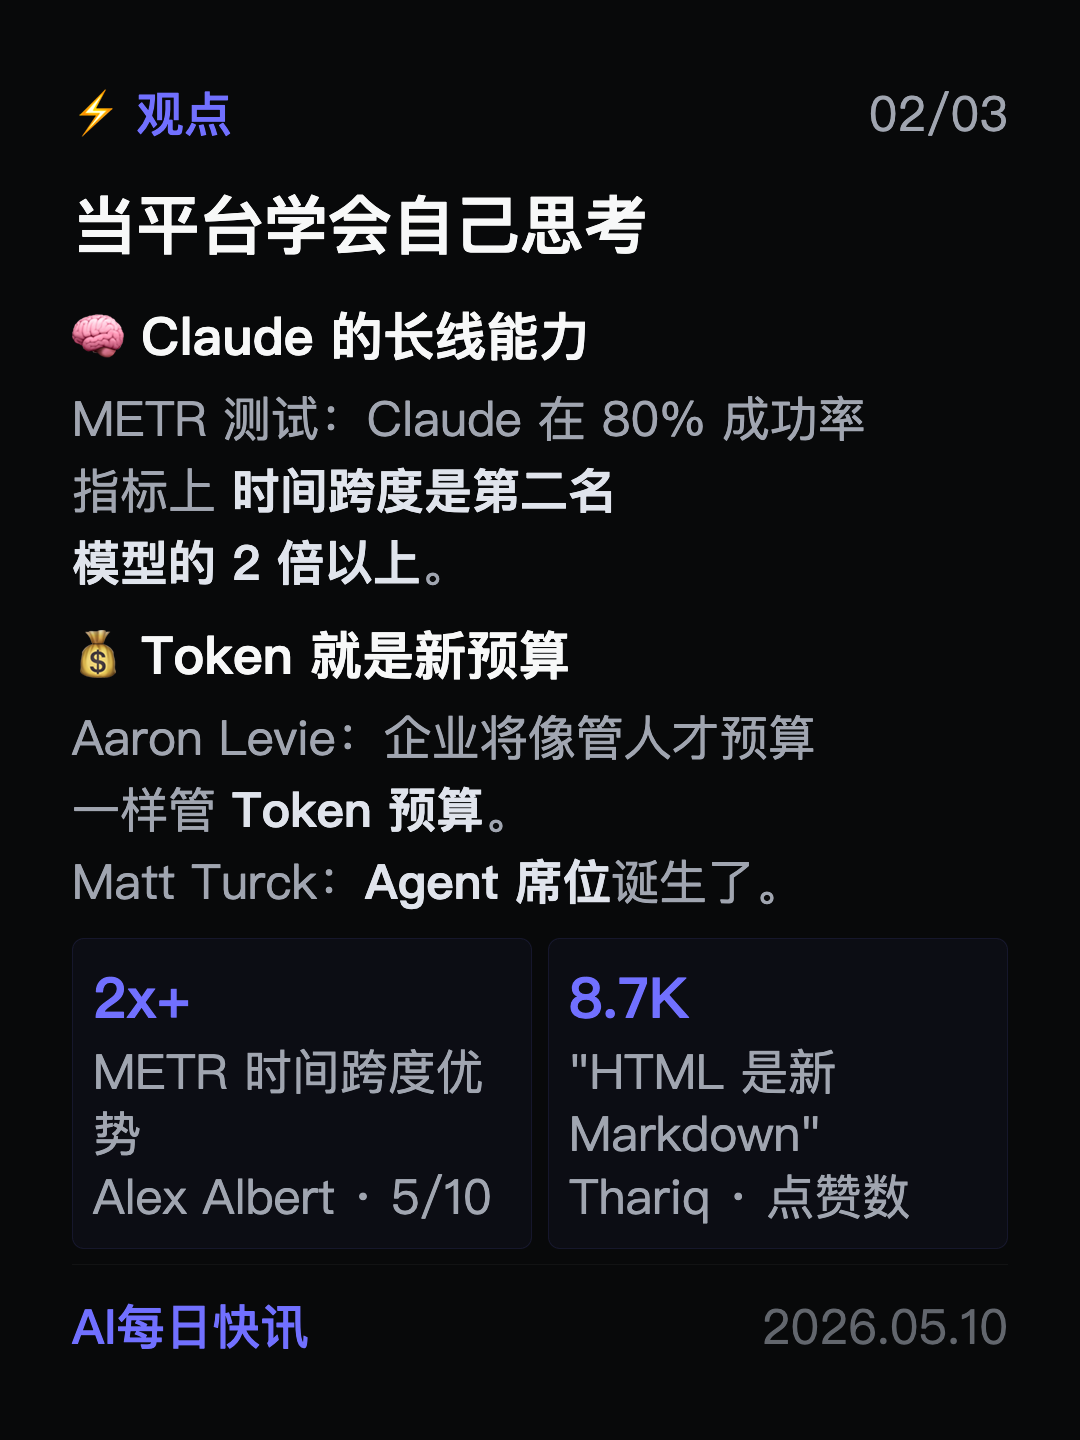
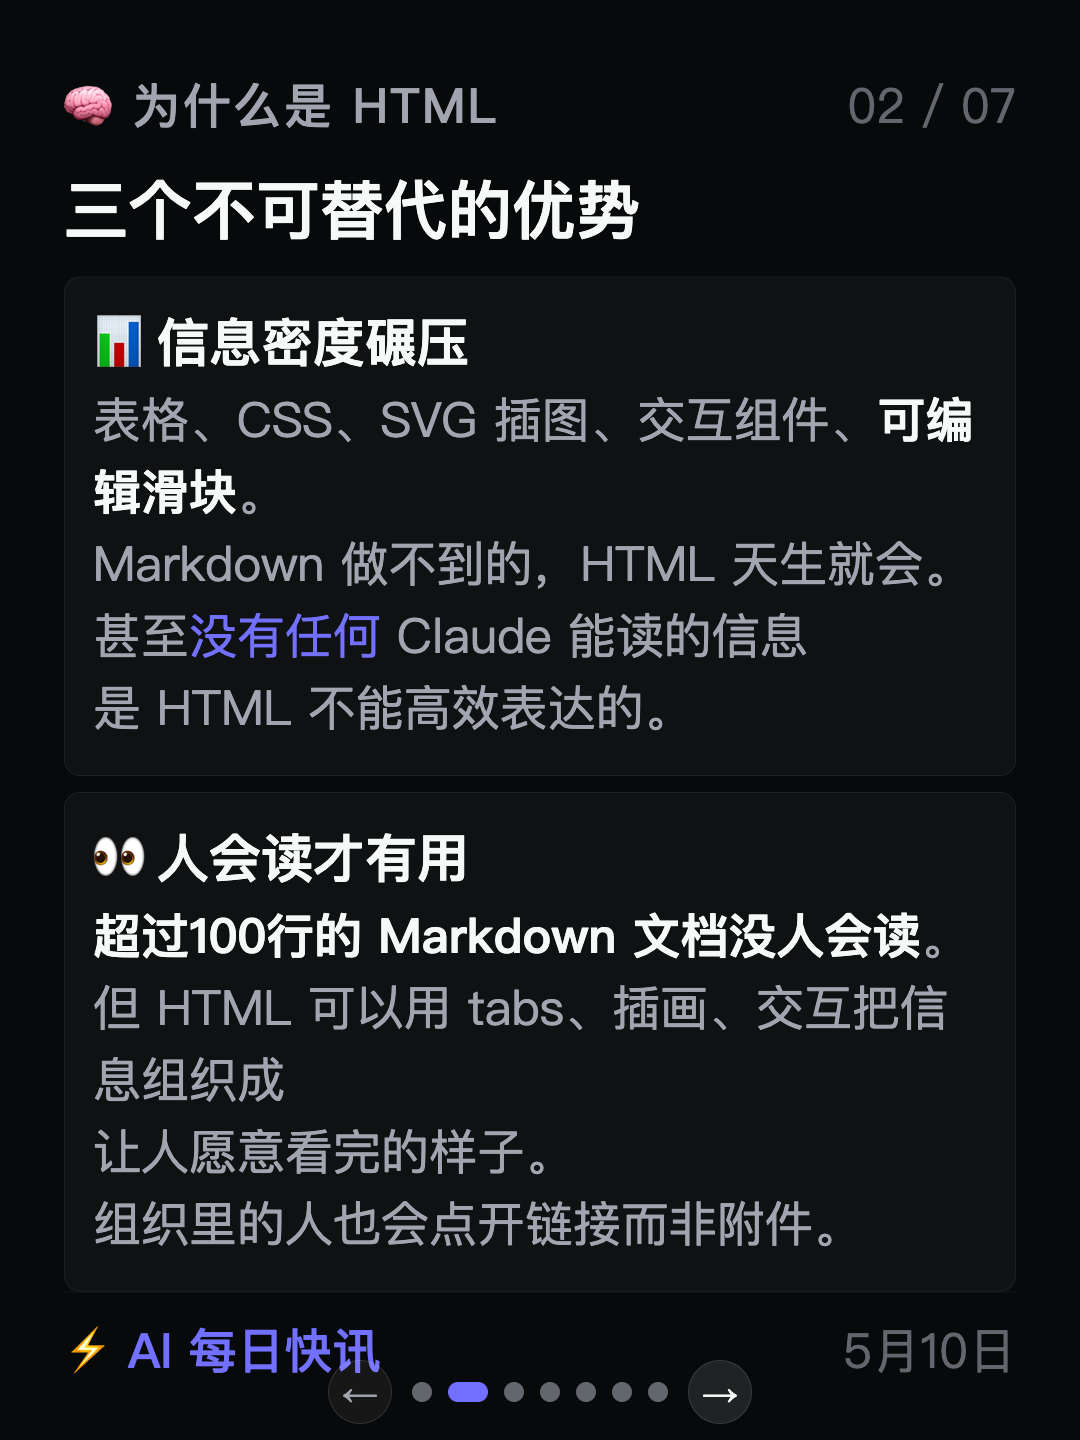
📰 20260510 Thariq HTML 7页卡片 — 用HTML替代Markdown

diff --git a/docs/20260510-thariq-html.html b/docs/20260510-thariq-html.html
@@ -1,0 +1,366 @@
+<!DOCTYPE html>
+<html lang="zh-CN">
+<head>
+<meta charset="UTF-8">
+<meta name="viewport" content="width=device-width, initial-scale=1.0">
+<title>AI Digest · HTML 输出时代</title>
+<style>
+* { margin: 0; padding: 0; box-sizing: border-box; }
+body {
+  font-family: -apple-system, 'PingFang SC', 'Noto Sans SC', 'Helvetica Neue', system-ui, sans-serif;
+  background: #08090a;
+  display: flex; justify-content: center; align-items: center;
+  min-height: 100vh;
+}
+.viewer {
+  position: relative;
+  width: 1080px; height: 1440px;
+  overflow: hidden;
+  background: #08090a;
+}
+.card {
+  position: absolute; inset: 0;
+  display: flex; flex-direction: column;
+  padding: 72px 64px 56px;
+  opacity: 0; transition: opacity 0.35s ease;
+  pointer-events: none;
+}
+.card.active {
+  opacity: 1; pointer-events: auto;
+}
+
+/* Page top */
+.page-top {
+  display: flex; justify-content: space-between; align-items: center;
+  margin-bottom: 32px; flex-shrink: 0;
+}
+.label {
+  font-size: 48px; font-weight: 500; color: #a0a5b0; letter-spacing: 0.05em;
+}
+.page-num {
+  font-size: 48px; font-weight: 400; color: #62666d;
+}
+.brand {
+  color: #7170ff;
+}
+
+/* Page 1 - Cover */
+.pc-headline {
+  flex: 1; display: flex; flex-direction: column; justify-content: center;
+  font-size: 88px; font-weight: 900; line-height: 1.15;
+  color: #f7f8f8; letter-spacing: -0.02em;
+}
+.pc-headline .accent { color: #7170ff; }
+.pc-sub {
+  font-size: 48px; font-weight: 400; line-height: 1.5;
+  color: #a0a5b0; margin-top: 20px; flex-shrink: 0;
+}
+.pc-meta {
+  display: flex; align-items: center; gap: 24px;
+  margin-top: 24px; flex-shrink: 0;
+}
+.pc-meta .tag {
+  font-size: 48px; font-weight: 500; color: #7170ff;
+}
+.pc-meta .source {
+  font-size: 48px; font-weight: 400; color: #62666d;
+}
+
+/* Page 2 - Analysis */
+.analysis-title {
+  font-size: 64px; font-weight: 800; color: #f7f8f8;
+  margin-bottom: 28px; line-height: 1.2; flex-shrink: 0;
+}
+.analysis-body {
+  flex: 1; display: flex; flex-direction: column; gap: 16px;
+  overflow: hidden;
+}
+.analysis-block {
+  flex: 1;
+  background: rgba(255,255,255,0.03);
+  border: 1px solid rgba(255,255,255,0.06);
+  border-radius: 16px; padding: 24px 28px;
+  display: flex; flex-direction: column; justify-content: center;
+}
+.ab-title {
+  font-size: 52px; font-weight: 700; color: #f7f8f8;
+  margin-bottom: 8px; line-height: 1.3;
+}
+.ab-title .emoji { margin-right: 12px; }
+.ab-body {
+  font-size: 48px; font-weight: 400; color: #a0a5b0;
+  line-height: 1.5;
+}
+.ab-body strong { color: #f7f8f8; font-weight: 600; }
+.ab-body .accent-text { color: #7170ff; }
+
+/* Pages 3-7: Use Case Pages (large image + single insight) */
+.ucd-container {
+  flex: 1; display: flex; flex-direction: column;
+  overflow: hidden;
+}
+.ucd-headline {
+  font-size: 52px; font-weight: 800; color: #f7f8f8;
+  margin-bottom: 20px; flex-shrink: 0; line-height: 1.2;
+}
+.ucd-img-wrap {
+  flex: 1; display: flex; align-items: center; justify-content: center;
+  margin-bottom: 16px; overflow: hidden;
+}
+.ucd-img-wrap img {
+  max-height: 100%; max-width: 100%;
+  width: auto; height: auto;
+  border-radius: 10px;
+  border: 1px solid rgba(255,255,255,0.08);
+  object-fit: contain;
+}
+.ucd-insight {
+  flex-shrink: 0;
+  font-size: 48px; font-weight: 400; color: #a0a5b0;
+  line-height: 1.5;
+}
+.ucd-insight strong { color: #f7f8f8; font-weight: 600; }
+
+/* Footer */
+.card-footer {
+  display: flex; justify-content: space-between; align-items: center;
+  padding-top: 24px; margin-top: auto;
+  border-top: 1px solid rgba(255,255,255,0.06);
+  flex-shrink: 0;
+}
+.card-footer .brand { font-size: 48px; font-weight: 500; }
+.card-footer .date { font-size: 48px; font-weight: 400; color: #62666d; }
+
+/* Navigation */
+.nav-bar {
+  position: absolute; bottom: 0; left: 0; right: 0;
+  display: flex; justify-content: center; align-items: center;
+  gap: 20px; padding: 16px 0;
+  z-index: 10;
+}
+.nav-btn {
+  width: 64px; height: 64px; border-radius: 50%;
+  background: rgba(255,255,255,0.06); border: 1px solid rgba(255,255,255,0.1);
+  color: #a0a5b0; font-size: 36px; cursor: pointer;
+  display: flex; align-items: center; justify-content: center;
+  transition: all 0.2s;
+}
+.nav-btn:hover { background: rgba(255,255,255,0.1); color: #f7f8f8; }
+.nav-btn:disabled { opacity: 0.2; cursor: default; }
+.dots { display: flex; gap: 16px; }
+.dot {
+  width: 20px; height: 20px; border-radius: 50%;
+  background: #62666d; cursor: pointer; transition: all 0.2s;
+  border: none;
+}
+.dot.active { background: #7170ff; width: 40px; border-radius: 10px; }
+</style>
+</head>
+<body>
+<div class="viewer" id="viewer">
+
+  <!-- Page 1: 核心观点 -->
+  <div class="card active" id="page0">
+    <div class="page-top">
+      <span class="label">⚡ 核心观点</span>
+      <span class="page-num">01 / 07</span>
+    </div>
+    <div class="pc-headline">
+      我越来越倾向于用<br>
+      <span class="accent">HTML</span> 替代 Markdown<br>
+      作为 AI 的输出格式
+    </div>
+    <div class="pc-sub">
+      951 万阅读 · 3.1 万转帖 · 2.7 万收藏<br>
+      这是 Claude Code 团队最被低估的范式转换
+    </div>
+    <div class="pc-meta">
+      <span class="tag">Thariq</span>
+      <span class="source">Claude Code 团队 · 2026.5</span>
+    </div>
+    <div class="card-footer">
+      <span class="brand">⚡ AI 每日快讯</span>
+      <span class="date">5月10日</span>
+    </div>
+  </div>
+
+  <!-- Page 2: 为什么 HTML -->
+  <div class="card" id="page1">
+    <div class="page-top">
+      <span class="label">🧠 为什么是 HTML</span>
+      <span class="page-num">02 / 07</span>
+    </div>
+    <div class="analysis-title">三个不可替代的优势</div>
+    <div class="analysis-body">
+      <div class="analysis-block">
+        <div class="ab-title"><span class="emoji">📊</span>信息密度碾压</div>
+        <div class="ab-body">
+          表格、CSS、SVG 插图、交互组件、<strong>可编辑滑块</strong>。<br>
+          Markdown 做不到的，HTML 天生就会。<br>
+          甚至<span class="accent-text">没有任何</span> Claude 能读的信息<br>
+          是 HTML 不能高效表达的。
+        </div>
+      </div>
+      <div class="analysis-block">
+        <div class="ab-title"><span class="emoji">👀</span>人会读才有用</div>
+        <div class="ab-body">
+          <strong>超过100行的 Markdown 文档没人会读</strong>。<br>
+          但 HTML 可以用 tabs、插画、交互把信息组织成<br>
+          让人愿意看完的样子。<br>
+          组织里的人也会点开链接而非附件。
+        </div>
+      </div>
+    </div>
+    <div class="card-footer">
+      <span class="brand">⚡ AI 每日快讯</span>
+      <span class="date">5月10日</span>
+    </div>
+  </div>
+
+  <!-- Page 3: 方案规划与探索 -->
+  <div class="card" id="page2">
+    <div class="page-top">
+      <span class="label">📍 方案规划与探索</span>
+      <span class="page-num">03 / 07</span>
+    </div>
+    <div class="ucd-container">
+      <div class="ucd-headline">方案规划与探索</div>
+      <div class="ucd-img-wrap">
+        <img src="../assets/20260510/thariq-specs.jpg" alt="方案规划与探索示例截图">
+      </div>
+      <div class="ucd-insight">
+        HTML 能在单页内平铺 6 种方案对比网格，标注每个的取舍。Markdown 做不到这种视觉化对比——你只能在多个文件间来回切换。HTML 把探索过程做成可交互的「方案网络」，从不确定到收敛再到验证，全程可视化。
+      </div>
+    </div>
+    <div class="card-footer">
+      <span class="brand">⚡ AI 每日快讯</span>
+      <span class="date">5月10日</span>
+    </div>
+  </div>
+
+  <!-- Page 4: 代码审查与理解 -->
+  <div class="card" id="page3">
+    <div class="page-top">
+      <span class="label">🔍 代码审查与理解</span>
+      <span class="page-num">04 / 07</span>
+    </div>
+    <div class="ucd-container">
+      <div class="ucd-headline">代码审查与理解</div>
+      <div class="ucd-img-wrap">
+        <img src="../assets/20260510/thariq-codereview.png" alt="代码审查示例截图">
+      </div>
+      <div class="ucd-insight">
+        HTML 能渲染带边注的 diff、按严重度颜色标记的流程图和模块关系图。Markdown 的代码块只是静态片段，而 HTML 可以把整个 PR 的上下文组织成可浏览的解释页。Thariq 现在每个 PR 都附一个 HTML 解释页，比 GitHub diff 好用得多。
+      </div>
+    </div>
+    <div class="card-footer">
+      <span class="brand">⚡ AI 每日快讯</span>
+      <span class="date">5月10日</span>
+    </div>
+  </div>
+
+  <!-- Page 5: 设计与原型 -->
+  <div class="card" id="page4">
+    <div class="page-top">
+      <span class="label">🎨 设计与原型</span>
+      <span class="page-num">05 / 07</span>
+    </div>
+    <div class="ucd-container">
+      <div class="ucd-headline">设计与原型</div>
+      <div class="ucd-img-wrap">
+        <img src="../assets/20260510/thariq-design.jpg" alt="设计与原型示例截图">
+      </div>
+      <div class="ucd-insight">
+        HTML 可以添加滑块、旋钮实时调参，调好后一键复制参数转成 prompt 贴回 Claude Code。Markdown 无法实现这种双向交互——你只能描述想要的效果，等 AI 重新生成。HTML 让你在视觉上「调」到满意为止，再跨平台实现。
+      </div>
+    </div>
+    <div class="card-footer">
+      <span class="brand">⚡ AI 每日快讯</span>
+      <span class="date">5月10日</span>
+    </div>
+  </div>
+
+  <!-- Page 6: 报告与研究 -->
+  <div class="card" id="page5">
+    <div class="page-top">
+      <span class="label">📋 报告与研究</span>
+      <span class="page-num">06 / 07</span>
+    </div>
+    <div class="ucd-container">
+      <div class="ucd-headline">报告与研究</div>
+      <div class="ucd-img-wrap">
+        <img src="../assets/20260510/thariq-report.jpg" alt="报告与研究示例截图">
+      </div>
+      <div class="ucd-insight">
+        HTML 可以从 Slack、代码、Git 历史、网络多个来源综合信息，产出带 SVG 流程图和交互式图表的长报告甚至幻灯片。Markdown 报告只能靠文字和表格，而 HTML 报告可以分享链接而非附件——阅读率翻倍。
+      </div>
+    </div>
+    <div class="card-footer">
+      <span class="brand">⚡ AI 每日快讯</span>
+      <span class="date">5月10日</span>
+    </div>
+  </div>
+
+  <!-- Page 7: 自定义编辑面板 -->
+  <div class="card" id="page6">
+    <div class="page-top">
+      <span class="label">🛠 自定义编辑面板</span>
+      <span class="page-num">07 / 07</span>
+    </div>
+    <div class="ucd-container">
+      <div class="ucd-headline">自定义编辑面板</div>
+      <div class="ucd-img-wrap">
+        <img src="../assets/20260510/thariq-editor.jpg" alt="自定义编辑面板示例截图">
+      </div>
+      <div class="ucd-insight">
+        HTML 可以做一个专为当前数据定制的拖拽面板或配置编辑器，用完即弃。Markdown 无法承载这种交互操作——你只能通过文字描述指挥 AI。HTML 让编辑变得直观，最后用导出按钮把结果转回 prompt 形成闭环。
+      </div>
+    </div>
+    <div class="card-footer">
+      <span class="brand">⚡ AI 每日快讯</span>
+      <span class="date">5月10日</span>
+    </div>
+  </div>
+
+  <!-- Navigation -->
+  <div class="nav-bar">
+    <button class="nav-btn" id="prevBtn" onclick="flip(-1)" disabled>←</button>
+    <div class="dots">
+      <button class="dot active" onclick="goTo(0)"></button>
+      <button class="dot" onclick="goTo(1)"></button>
+      <button class="dot" onclick="goTo(2)"></button>
+      <button class="dot" onclick="goTo(3)"></button>
+      <button class="dot" onclick="goTo(4)"></button>
+      <button class="dot" onclick="goTo(5)"></button>
+      <button class="dot" onclick="goTo(6)"></button>
+    </div>
+    <button class="nav-btn" id="nextBtn" onclick="flip(1)">→</button>
+  </div>
+</div>
+
+<script>
+let current = 0;
+const total = 7;
+function flip(dir) {
+  const next = current + dir;
+  if (next < 0 || next >= total) return;
+  goTo(next);
+}
+function goTo(idx) {
+  document.querySelectorAll('.card').forEach((c, i) => {
+    c.classList.toggle('active', i === idx);
+  });
+  document.querySelectorAll('.dot').forEach((d, i) => {
+    d.classList.toggle('active', i === idx);
+  });
+  document.getElementById('prevBtn').disabled = idx === 0;
+  document.getElementById('nextBtn').disabled = idx === total - 1;
+  current = idx;
+}
+document.addEventListener('keydown', e => {
+  if (e.key === 'ArrowLeft') flip(-1);
+  if (e.key === 'ArrowRight') flip(1);
+});
+</script>
+</body>
+</html>
